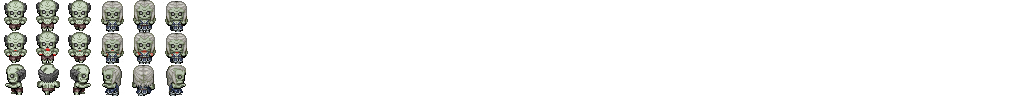
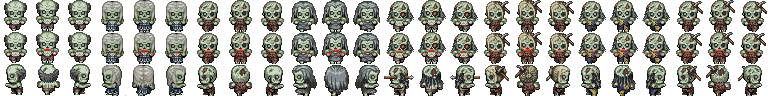
more zombie sprites

diff --git a/render.c b/render.c
@@ -240,7 +240,7 @@ void renderInit(App *app){
   app->game.allan.body.sprite = &app->game.allan.sprite;
 
   app->enemy_frame_count = 3;
-  app->enemy_variation_count = 2;
+  app->enemy_variation_count = 8;
   sprite_init(&app->zombie, 
 	  0, 0, // origin
 	  32, 32, app->enemy_frame_count * app->enemy_variation_count, // frame size and count

diff --git a/README.md b/README.md
@@ -29,7 +29,6 @@
 # TODO
 
 * fix close quarters combat
-* all zombie sprites
 * sound effects
     * indy respawn
 	* allan respawn
